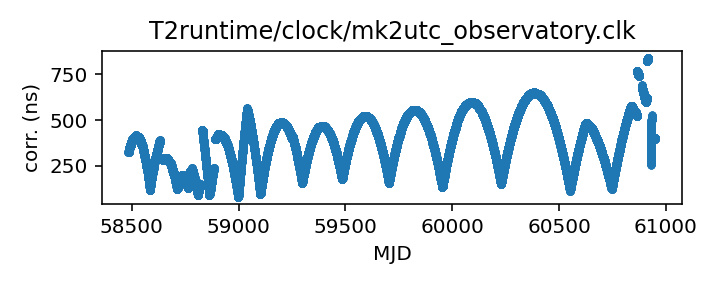
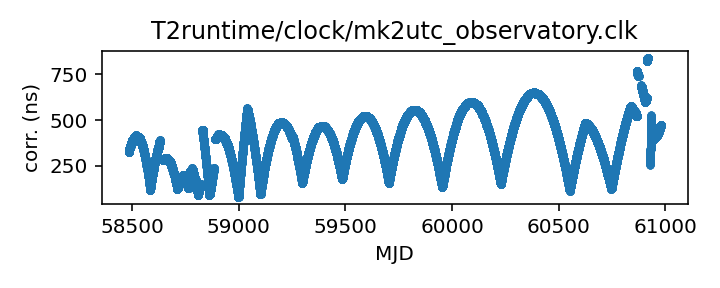
Routine gh-pages update from Github action Mon Nov 17 20:42:19 UTC 2025

diff --git a/status.md b/status.md
@@ -13,18 +13,18 @@ name of each clock file links to a page with more details.
 
 | Name | File | Corrections start | Corrections end | Last check date | Last check result 
 |:--- |:--- | --- | --- | --- |:--- 
-| [GPS to UTC](T2runtime/clock/gps2utc.clk.html) | `T2runtime/clock/gps2utc.clk` | 1993-01-01 MJD 48988.0 | 2025-10-31 MJD 60979.0 | 2025-11-16 | Unchanged 
-| [GPS to UTC (Combined Clock)](T2runtime/clock/gps2utc_cc.clk.html) | `T2runtime/clock/gps2utc_cc.clk` | 1993-01-01 MJD 48988.0 | 2025-10-31 MJD 60979.0 | 2025-11-16 | Unchanged 
-| [GPS to UTC (Corrected)](T2runtime/clock/gps2utc_c0p.clk.html) | `T2runtime/clock/gps2utc_c0p.clk` | 2010-12-29 MJD 55559.0 | 2025-10-31 MJD 60979.0 | 2025-11-16 | Unchanged 
-| [GBT](tempo/clock/time_gbt.dat.html) | `tempo/clock/time_gbt.dat` | 2000-12-31 MJD 51909.5 | 2025-11-15 MJD 60994.5 | 2025-11-16 | Updated 
-| [GBT (TEMPO2 converted from TEMPO)](T2runtime/clock/gbt2gps.clk.html) | `T2runtime/clock/gbt2gps.clk` | 2000-12-31 MJD 51909.5 | 2024-05-18 MJD 60448.5 | 2025-11-16 | **Validation failed** 
-| [Jodrell Bank](T2runtime/clock/jb2gps.clk.html) | `T2runtime/clock/jb2gps.clk` | 2006-10-13 MJD 54021.4 | 2025-10-08 MJD 60956.0 | 2025-11-10 | Unchanged 
-| [Jodrell Bank Roach](T2runtime/clock/jbroach2jb.clk.html) | `T2runtime/clock/jbroach2jb.clk` | 2006-10-13 MJD 54021.4 | 2018-03-20 MJD 58197.6 | 2025-11-10 | Unchanged 
-| [Jodrell Bank DFB](T2runtime/clock/jbdfb2jb.clk.html) | `T2runtime/clock/jbdfb2jb.clk` | 2006-10-13 MJD 54021.4 | 2021-02-22 MJD 59268.0 | 2025-11-10 | Unchanged 
-| [Meerkat (observatory)](T2runtime/clock/mk2utc_observatory.clk.html) | `T2runtime/clock/mk2utc_observatory.clk` | 2019-01-01 MJD 58484.0 | 2025-10-02 MJD 60951.0 | 2025-11-10 | **Failed to download** 
-| [Leap seconds](tempo/clock/leap.sec.html) | `tempo/clock/leap.sec` | 1972-07-01 MJD 41499.0 | 2017-01-01 MJD 57754.0 | 2025-11-16 | Unchanged 
-| [UT1 table](tempo/clock/ut1.dat.html) | `tempo/clock/ut1.dat` | 1973-01-02 MJD 41684.0 | 2026-11-21 MJD 61365.0 | 2025-11-16 | Unchanged 
-| [UT1 table](T2runtime/clock/ut1.dat.html) | `T2runtime/clock/ut1.dat` | 1973-01-02 MJD 41684.0 | 2026-11-21 MJD 61365.0 | 2025-11-16 | Unchanged 
+| [GPS to UTC](T2runtime/clock/gps2utc.clk.html) | `T2runtime/clock/gps2utc.clk` | 1993-01-01 MJD 48988.0 | 2025-10-31 MJD 60979.0 | 2025-11-17 | Unchanged 
+| [GPS to UTC (Combined Clock)](T2runtime/clock/gps2utc_cc.clk.html) | `T2runtime/clock/gps2utc_cc.clk` | 1993-01-01 MJD 48988.0 | 2025-10-31 MJD 60979.0 | 2025-11-17 | Unchanged 
+| [GPS to UTC (Corrected)](T2runtime/clock/gps2utc_c0p.clk.html) | `T2runtime/clock/gps2utc_c0p.clk` | 2010-12-29 MJD 55559.0 | 2025-10-31 MJD 60979.0 | 2025-11-17 | Unchanged 
+| [GBT](tempo/clock/time_gbt.dat.html) | `tempo/clock/time_gbt.dat` | 2000-12-31 MJD 51909.5 | 2025-11-16 MJD 60995.5 | 2025-11-17 | Updated 
+| [GBT (TEMPO2 converted from TEMPO)](T2runtime/clock/gbt2gps.clk.html) | `T2runtime/clock/gbt2gps.clk` | 2000-12-31 MJD 51909.5 | 2024-05-18 MJD 60448.5 | 2025-11-17 | **Validation failed** 
+| [Jodrell Bank](T2runtime/clock/jb2gps.clk.html) | `T2runtime/clock/jb2gps.clk` | 2006-10-13 MJD 54021.4 | 2025-10-08 MJD 60956.0 | 2025-11-17 | Unchanged 
+| [Jodrell Bank Roach](T2runtime/clock/jbroach2jb.clk.html) | `T2runtime/clock/jbroach2jb.clk` | 2006-10-13 MJD 54021.4 | 2018-03-20 MJD 58197.6 | 2025-11-17 | Unchanged 
+| [Jodrell Bank DFB](T2runtime/clock/jbdfb2jb.clk.html) | `T2runtime/clock/jbdfb2jb.clk` | 2006-10-13 MJD 54021.4 | 2021-02-22 MJD 59268.0 | 2025-11-17 | Unchanged 
+| [Meerkat (observatory)](T2runtime/clock/mk2utc_observatory.clk.html) | `T2runtime/clock/mk2utc_observatory.clk` | 2019-01-01 MJD 58484.0 | 2025-10-30 MJD 60979.0 | 2025-11-17 | Updated 
+| [Leap seconds](tempo/clock/leap.sec.html) | `tempo/clock/leap.sec` | 1972-07-01 MJD 41499.0 | 2017-01-01 MJD 57754.0 | 2025-11-17 | Unchanged 
+| [UT1 table](tempo/clock/ut1.dat.html) | `tempo/clock/ut1.dat` | 1973-01-02 MJD 41684.0 | 2026-11-21 MJD 61365.0 | 2025-11-17 | Unchanged 
+| [UT1 table](T2runtime/clock/ut1.dat.html) | `T2runtime/clock/ut1.dat` | 1973-01-02 MJD 41684.0 | 2026-11-21 MJD 61365.0 | 2025-11-17 | Unchanged 
 
 
 
@@ -68,26 +68,26 @@ name of each clock file links to a page with more details.
 
 | Name | File | Corrections start | Corrections end | Last check date | Last check result 
 |:--- |:--- | --- | --- | --- |:--- 
-| [GPS to UTC (TEMPO2)](T2runtime/clock/gpst2utc_tempo2.clk.html) | `T2runtime/clock/gpst2utc_tempo2.clk` | 1993-01-01 MJD 48988.0 | 2024-12-30 MJD 60674.0 | 2025-11-10 | Unchanged 
-| [GBT (TEMPO2)](T2runtime/clock/gbt2gps_tempo2.clk.html) | `T2runtime/clock/gbt2gps_tempo2.clk` | 2000-12-31 MJD 51909.5 | 2020-02-25 MJD 58904.5 | 2025-11-10 | Unchanged 
-| [Jodrell Bank (TEMPO)](tempo/clock/time_jb.dat.html) | `tempo/clock/time_jb.dat` | 2006-10-13 MJD 54021.4 | 2019-05-13 MJD 58616.2 | 2025-11-10 | Unchanged 
-| [VLA](tempo/clock/time_vla.dat.html) | `tempo/clock/time_vla.dat` | 1990-10-27 MJD 48191.2 | 2025-02-10 MJD 60716.2 | 2025-11-10 | Unchanged 
-| [VLA (TEMPO2)](T2runtime/clock/vla2gps.clk.html) | `T2runtime/clock/vla2gps.clk` | 2015-02-01 MJD 57054.6 | 2025-02-10 MJD 60716.2 | 2025-11-10 | Unchanged 
-| [VLA to NIST](T2runtime/clock/vla2nist.clk.html) | `T2runtime/clock/vla2nist.clk` | 1990-10-27 MJD 48191.2 | 1993-11-13 MJD 49304.0 | 2025-11-10 | Unchanged 
-| [FAST](tempo/clock/time_fast.dat.html) | `tempo/clock/time_fast.dat` | 2017-07-27 MJD 57961.0 | 2025-08-25 MJD 60913.0 | 2025-11-10 | **Failed to download** 
-| [WSRT](T2runtime/clock/wsrt2gps.clk.html) | `T2runtime/clock/wsrt2gps.clk` | 1999-01-01 MJD 51179.5 | 2015-06-29 MJD 57202.1 | 2025-11-10 | Unchanged 
-| [WSRT (TEMPO)](tempo/clock/time_wsrt.dat.html) | `tempo/clock/time_wsrt.dat` | 1987-07-24 MJD 47000.0 | 2007-12-24 MJD 54458.0 | 2025-11-10 | **Validation failed** 
-| [Parkes](T2runtime/clock/pks2gps.clk.html) | `T2runtime/clock/pks2gps.clk` | 1858-11-17 MJD 0.0 | 2025-10-31 MJD 60979.1 | 2025-11-10 | Unchanged 
-| [Parkes (TEMPO)](tempo/clock/time_pks.dat.html) | `tempo/clock/time_pks.dat` | 1979-05-07 MJD 44000.0 | 2011-07-03 MJD 55745.8 | 2025-11-10 | Unchanged 
-| [SRT](T2runtime/clock/srt2gps.clk.html) | `T2runtime/clock/srt2gps.clk` | 2013-03-20 MJD 56371.0 | 2019-12-11 MJD 58828.0 | 2025-11-10 | Unchanged 
-| [Effelsberg](T2runtime/clock/eff2gps.clk.html) | `T2runtime/clock/eff2gps.clk` | 1993-11-29 MJD 49320.0 | 2015-06-22 MJD 57195.5 | 2025-11-10 | Unchanged 
-| [Effelsberg Asterix/PSRix](T2runtime/clock/effix2gps.clk.html) | `T2runtime/clock/effix2gps.clk` | 2011-01-01 MJD 55562.5 | 2021-03-21 MJD 59294.5 | 2025-11-10 | Unchanged 
-| [LEAP](T2runtime/clock/leap2effix.clk.html) | `T2runtime/clock/leap2effix.clk` | 2012-10-29 MJD 56230.0 | 2014-03-04 MJD 56720.0 | 2025-11-10 | Unchanged 
-| [NUPPI](tempo/clock/time_nuppi.dat.html) | `tempo/clock/time_nuppi.dat` | 2005-03-07 MJD 53436.0 | 2015-11-08 MJD 57334.6 | 2025-11-10 | Unchanged 
-| [Meerkat (TEMPO2)](T2runtime/clock/mk2utc.clk.html) | `T2runtime/clock/mk2utc.clk` | 2019-01-01 MJD 58484.0 | 2024-09-23 MJD 60576.9 | 2025-11-10 | **Validation failed** 
-| [MOST](T2runtime/clock/mo2gps.clk.html) | `T2runtime/clock/mo2gps.clk` | 2003-12-27 MJD 53000.0 | 2018-09-06 MJD 58367.0 | 2025-11-10 | Unchanged 
-| [Nancay to obspm](T2runtime/clock/ncyobs2obspm.clk.html) | `T2runtime/clock/ncyobs2obspm.clk` | 1988-05-18 MJD 47299.6 | 2024-12-30 MJD 60674.0 | 2025-11-10 | Unchanged 
-| [obspm](T2runtime/clock/obspm2gps.clk.html) | `T2runtime/clock/obspm2gps.clk` | 2003-12-01 MJD 52974.0 | 2023-10-27 MJD 60244.0 | 2025-11-10 | Unchanged 
+| [GPS to UTC (TEMPO2)](T2runtime/clock/gpst2utc_tempo2.clk.html) | `T2runtime/clock/gpst2utc_tempo2.clk` | 1993-01-01 MJD 48988.0 | 2024-12-30 MJD 60674.0 | 2025-11-17 | Unchanged 
+| [GBT (TEMPO2)](T2runtime/clock/gbt2gps_tempo2.clk.html) | `T2runtime/clock/gbt2gps_tempo2.clk` | 2000-12-31 MJD 51909.5 | 2020-02-25 MJD 58904.5 | 2025-11-17 | Unchanged 
+| [Jodrell Bank (TEMPO)](tempo/clock/time_jb.dat.html) | `tempo/clock/time_jb.dat` | 2006-10-13 MJD 54021.4 | 2019-05-13 MJD 58616.2 | 2025-11-17 | Unchanged 
+| [VLA](tempo/clock/time_vla.dat.html) | `tempo/clock/time_vla.dat` | 1990-10-27 MJD 48191.2 | 2025-02-10 MJD 60716.2 | 2025-11-17 | Unchanged 
+| [VLA (TEMPO2)](T2runtime/clock/vla2gps.clk.html) | `T2runtime/clock/vla2gps.clk` | 2015-02-01 MJD 57054.6 | 2025-02-10 MJD 60716.2 | 2025-11-17 | Unchanged 
+| [VLA to NIST](T2runtime/clock/vla2nist.clk.html) | `T2runtime/clock/vla2nist.clk` | 1990-10-27 MJD 48191.2 | 1993-11-13 MJD 49304.0 | 2025-11-17 | Unchanged 
+| [FAST](tempo/clock/time_fast.dat.html) | `tempo/clock/time_fast.dat` | 2017-07-27 MJD 57961.0 | 2025-08-25 MJD 60913.0 | 2025-11-17 | **Failed to download** 
+| [WSRT](T2runtime/clock/wsrt2gps.clk.html) | `T2runtime/clock/wsrt2gps.clk` | 1999-01-01 MJD 51179.5 | 2015-06-29 MJD 57202.1 | 2025-11-17 | Unchanged 
+| [WSRT (TEMPO)](tempo/clock/time_wsrt.dat.html) | `tempo/clock/time_wsrt.dat` | 1987-07-24 MJD 47000.0 | 2007-12-24 MJD 54458.0 | 2025-11-17 | **Validation failed** 
+| [Parkes](T2runtime/clock/pks2gps.clk.html) | `T2runtime/clock/pks2gps.clk` | 1858-11-17 MJD 0.0 | 2025-10-31 MJD 60979.1 | 2025-11-17 | Unchanged 
+| [Parkes (TEMPO)](tempo/clock/time_pks.dat.html) | `tempo/clock/time_pks.dat` | 1979-05-07 MJD 44000.0 | 2011-07-03 MJD 55745.8 | 2025-11-17 | Unchanged 
+| [SRT](T2runtime/clock/srt2gps.clk.html) | `T2runtime/clock/srt2gps.clk` | 2013-03-20 MJD 56371.0 | 2019-12-11 MJD 58828.0 | 2025-11-17 | Unchanged 
+| [Effelsberg](T2runtime/clock/eff2gps.clk.html) | `T2runtime/clock/eff2gps.clk` | 1993-11-29 MJD 49320.0 | 2015-06-22 MJD 57195.5 | 2025-11-17 | Unchanged 
+| [Effelsberg Asterix/PSRix](T2runtime/clock/effix2gps.clk.html) | `T2runtime/clock/effix2gps.clk` | 2011-01-01 MJD 55562.5 | 2021-03-21 MJD 59294.5 | 2025-11-17 | Unchanged 
+| [LEAP](T2runtime/clock/leap2effix.clk.html) | `T2runtime/clock/leap2effix.clk` | 2012-10-29 MJD 56230.0 | 2014-03-04 MJD 56720.0 | 2025-11-17 | Unchanged 
+| [NUPPI](tempo/clock/time_nuppi.dat.html) | `tempo/clock/time_nuppi.dat` | 2005-03-07 MJD 53436.0 | 2015-11-08 MJD 57334.6 | 2025-11-17 | Unchanged 
+| [Meerkat (TEMPO2)](T2runtime/clock/mk2utc.clk.html) | `T2runtime/clock/mk2utc.clk` | 2019-01-01 MJD 58484.0 | 2024-09-23 MJD 60576.9 | 2025-11-17 | **Validation failed** 
+| [MOST](T2runtime/clock/mo2gps.clk.html) | `T2runtime/clock/mo2gps.clk` | 2003-12-27 MJD 53000.0 | 2018-09-06 MJD 58367.0 | 2025-11-17 | Unchanged 
+| [Nancay to obspm](T2runtime/clock/ncyobs2obspm.clk.html) | `T2runtime/clock/ncyobs2obspm.clk` | 1988-05-18 MJD 47299.6 | 2024-12-30 MJD 60674.0 | 2025-11-17 | Unchanged 
+| [obspm](T2runtime/clock/obspm2gps.clk.html) | `T2runtime/clock/obspm2gps.clk` | 2003-12-01 MJD 52974.0 | 2023-10-27 MJD 60244.0 | 2025-11-17 | Unchanged 
 
 
 ### Further information:

diff --git a/T2runtime/clock/mk2utc_observatory.clk.md b/T2runtime/clock/mk2utc_observatory.clk.md
@@ -19,14 +19,13 @@ If questions arise, contact Ryan Shannon <rshannon@swin.edu.au>
 | Format | tempo2 |
 | Bogus last correction | False |
 | Clock file start | 2019-01-01 MJD 58484.0 |
-| Clock file end | 2025-10-02 MJD 60951.0 |
+| Clock file end | 2025-10-30 MJD 60979.0 |
 | Update interval (days) | 7 |
-| Last update attempt | 2025-11-10 |
-| Last update result | Failed to download |
+| Last update attempt | 2025-11-17 |
+| Last update result | Updated |
 
 Log entries from the last few update attempts:
 ```
-2025-09-08 20:40:39.300 - Updated
 2025-09-15 20:38:23.219 - Unchanged
 2025-09-22 20:40:19.530 - Validation failed: Unable to read new version of T2runtime/clock/mk2utc_observatory.clk: Clock file /tmp/astropy-download-3290-2dyj3b3u appears to be out of order: 60933.96875 > 60929.0
 2025-09-29 20:37:22.935 - Validation failed: Unable to read new version of T2runtime/clock/mk2utc_observatory.clk: Clock file /tmp/astropy-download-3302-dwp2zb0z appears to be out of order: 60933.96875 > 60929.0
@@ -36,6 +35,7 @@ Log entries from the last few update attempts:
 2025-10-27 20:40:09.489 - Unchanged
 2025-11-03 20:42:59.579 - Unchanged
 2025-11-10 20:44:57.437 - Failed to download: <urlopen error _ssl.c:999: The handshake operation timed out>
+2025-11-17 20:41:48.816 - Updated
 ```
 [Full log](https://raw.githubusercontent.com/ipta/pulsar-clock-corrections/main/log/T2runtime/clock/mk2utc_observatory.clk.log)
 
@@ -44,7 +44,7 @@ Leading comments from clock file:
     # Tie of Karoo Telescope Time to UTC
     # This file is from the KTT-GNSS sensor, and does not include circular-T
     # MJD = (SensorTime(us)/86400e6)+40587    15-minute snapshots
-    # Created at unix time 1760038098.68837 from KTT mySQL database.
+    # Created at unix time 1762257342.154564 from KTT mySQL database.
     #
     # MJD (days)   KTT-UTC (seconds)
     #------------------------------------------------------

diff --git a/T2runtime/clock/gbt2gps.clk.md b/T2runtime/clock/gbt2gps.clk.md
@@ -25,12 +25,11 @@ If questions arise about the conversion, contact Anne Archibald
 | Clock file start | 2000-12-31 MJD 51909.5 |
 | Clock file end | 2024-05-18 MJD 60448.5 |
 | Update interval (days) | 1 |
-| Last update attempt | 2025-11-16 |
+| Last update attempt | 2025-11-17 |
 | Last update result | Validation failed |
 
 Log entries from the last few update attempts:
 ```
-2025-11-07 20:38:01.516 - Validation failed: New version of T2runtime/clock/gbt2gps.clk MJDs differ from old version where they overlap in 8407 places
 2025-11-08 20:36:40.941 - Validation failed: New version of T2runtime/clock/gbt2gps.clk MJDs differ from old version where they overlap in 8407 places
 2025-11-09 20:38:03.234 - Validation failed: New version of T2runtime/clock/gbt2gps.clk MJDs differ from old version where they overlap in 8407 places
 2025-11-10 20:44:36.517 - Validation failed: New version of T2runtime/clock/gbt2gps.clk MJDs differ from old version where they overlap in 8407 places
@@ -40,6 +39,7 @@ Log entries from the last few update attempts:
 2025-11-14 20:42:18.795 - Validation failed: New version of T2runtime/clock/gbt2gps.clk MJDs differ from old version where they overlap in 8407 places
 2025-11-15 20:37:59.275 - Validation failed: New version of T2runtime/clock/gbt2gps.clk MJDs differ from old version where they overlap in 8407 places
 2025-11-16 20:40:00.662 - Validation failed: New version of T2runtime/clock/gbt2gps.clk MJDs differ from old version where they overlap in 8407 places
+2025-11-17 20:41:23.754 - Validation failed: New version of T2runtime/clock/gbt2gps.clk MJDs differ from old version where they overlap in 8407 places
 ```
 [Full log](https://raw.githubusercontent.com/ipta/pulsar-clock-corrections/main/log/T2runtime/clock/gbt2gps.clk.log)
 

diff --git a/T2runtime/clock/mk2utc.clk.md b/T2runtime/clock/mk2utc.clk.md
@@ -17,12 +17,11 @@ up-to-date.
 | Clock file start | 2019-01-01 MJD 58484.0 |
 | Clock file end | 2024-09-23 MJD 60576.9 |
 | Update interval (days) | 7 |
-| Last update attempt | 2025-11-10 |
+| Last update attempt | 2025-11-17 |
 | Last update result | Validation failed |
 
 Log entries from the last few update attempts:
 ```
-2025-09-08 20:40:40.602 - Validation failed: New version of T2runtime/clock/mk2utc.clk MJDs differ from old version where they overlap in 8252 places
 2025-09-15 20:38:24.488 - Validation failed: New version of T2runtime/clock/mk2utc.clk MJDs differ from old version where they overlap in 8252 places
 2025-09-22 20:40:21.203 - Validation failed: New version of T2runtime/clock/mk2utc.clk MJDs differ from old version where they overlap in 8252 places
 2025-09-29 20:37:24.227 - Validation failed: New version of T2runtime/clock/mk2utc.clk MJDs differ from old version where they overlap in 8252 places
@@ -32,6 +31,7 @@ Log entries from the last few update attempts:
 2025-10-27 20:40:10.855 - Validation failed: New version of T2runtime/clock/mk2utc.clk MJDs differ from old version where they overlap in 8252 places
 2025-11-03 20:43:01.067 - Validation failed: New version of T2runtime/clock/mk2utc.clk MJDs differ from old version where they overlap in 8252 places
 2025-11-10 20:44:59.209 - Validation failed: New version of T2runtime/clock/mk2utc.clk MJDs differ from old version where they overlap in 8252 places
+2025-11-17 20:41:50.637 - Validation failed: New version of T2runtime/clock/mk2utc.clk MJDs differ from old version where they overlap in 8252 places
 ```
 [Full log](https://raw.githubusercontent.com/ipta/pulsar-clock-corrections/main/log/T2runtime/clock/mk2utc.clk.log)
 

diff --git a/tempo/clock/time_wsrt.dat.md b/tempo/clock/time_wsrt.dat.md
@@ -20,12 +20,11 @@ should be the same information.
 | Clock file start | 1987-07-24 MJD 47000.0 |
 | Clock file end | 2007-12-24 MJD 54458.0 |
 | Update interval (days) | 7 |
-| Last update attempt | 2025-11-10 |
+| Last update attempt | 2025-11-17 |
 | Last update result | Validation failed |
 
 Log entries from the last few update attempts:
 ```
-2025-09-08 20:40:29.445 - Validation failed: New version of tempo/clock/time_wsrt.dat MJDs differ from old version where they overlap in 5 places
 2025-09-15 20:38:14.339 - Validation failed: New version of tempo/clock/time_wsrt.dat MJDs differ from old version where they overlap in 5 places
 2025-09-22 20:40:04.220 - Validation failed: New version of tempo/clock/time_wsrt.dat MJDs differ from old version where they overlap in 5 places
 2025-09-29 20:37:17.520 - Validation failed: New version of tempo/clock/time_wsrt.dat MJDs differ from old version where they overlap in 5 places
@@ -35,6 +34,7 @@ Log entries from the last few update attempts:
 2025-10-27 20:39:59.582 - Validation failed: New version of tempo/clock/time_wsrt.dat MJDs differ from old version where they overlap in 5 places
 2025-11-03 20:42:27.208 - Validation failed: New version of tempo/clock/time_wsrt.dat MJDs differ from old version where they overlap in 5 places
 2025-11-10 20:44:41.093 - Validation failed: New version of tempo/clock/time_wsrt.dat MJDs differ from old version where they overlap in 5 places
+2025-11-17 20:41:29.092 - Validation failed: New version of tempo/clock/time_wsrt.dat MJDs differ from old version where they overlap in 5 places
 ```
 [Full log](https://raw.githubusercontent.com/ipta/pulsar-clock-corrections/main/log/tempo/clock/time_wsrt.dat.log)
 

diff --git a/tempo/clock/time_fast.dat.md b/tempo/clock/time_fast.dat.md
@@ -16,12 +16,11 @@ This file is pulled from the FAST_ClockFile repository.
 | Clock file start | 2017-07-27 MJD 57961.0 |
 | Clock file end | 2025-08-25 MJD 60913.0 |
 | Update interval (days) | 7 |
-| Last update attempt | 2025-11-10 |
+| Last update attempt | 2025-11-17 |
 | Last update result | Failed to download |
 
 Log entries from the last few update attempts:
 ```
-2025-09-08 20:40:28.888 - Unchanged
 2025-09-15 20:38:13.792 - Unchanged
 2025-09-22 20:40:03.597 - Unchanged
 2025-09-29 20:37:16.851 - Unchanged
@@ -31,6 +30,7 @@ Log entries from the last few update attempts:
 2025-10-27 20:39:58.812 - Failed to download: HTTP Error 404: Not Found
 2025-11-03 20:42:26.602 - Failed to download: HTTP Error 404: Not Found
 2025-11-10 20:44:40.322 - Failed to download: HTTP Error 404: Not Found
+2025-11-17 20:41:28.304 - Failed to download: HTTP Error 404: Not Found
 ```
 [Full log](https://raw.githubusercontent.com/ipta/pulsar-clock-corrections/main/log/tempo/clock/time_fast.dat.log)
 

diff --git a/tempo/clock/time_gbt.dat.md b/tempo/clock/time_gbt.dat.md
@@ -36,14 +36,13 @@ If questions arise, contact Ryan S. Lynch <rlynch@nrao.edu>.
 | Format | tempo |
 | Bogus last correction | False |
 | Clock file start | 2000-12-31 MJD 51909.5 |
-| Clock file end | 2025-11-15 MJD 60994.5 |
+| Clock file end | 2025-11-16 MJD 60995.5 |
 | Update interval (days) | 1 |
-| Last update attempt | 2025-11-16 |
+| Last update attempt | 2025-11-17 |
 | Last update result | Updated |
 
 Log entries from the last few update attempts:
 ```
-2025-11-07 20:38:01.449 - Updated
 2025-11-08 20:36:40.874 - Updated
 2025-11-09 20:38:03.165 - Updated
 2025-11-10 20:44:35.848 - Updated
@@ -53,6 +52,7 @@ Log entries from the last few update attempts:
 2025-11-14 20:42:18.731 - Updated
 2025-11-15 20:37:59.208 - Updated
 2025-11-16 20:40:00.594 - Updated
+2025-11-17 20:41:23.112 - Updated
 ```
 [Full log](https://raw.githubusercontent.com/ipta/pulsar-clock-corrections/main/log/tempo/clock/time_gbt.dat.log)
 

diff --git a/T2runtime/clock/pks2gps.clk.md b/T2runtime/clock/pks2gps.clk.md
@@ -35,12 +35,11 @@ we retain it.
 | Clock file start | 1858-11-17 MJD 0.0 |
 | Clock file end | 2025-10-31 MJD 60979.1 |
 | Update interval (days) | 7 |
-| Last update attempt | 2025-11-10 |
+| Last update attempt | 2025-11-17 |
 | Last update result | Unchanged |
 
 Log entries from the last few update attempts:
 ```
-2025-09-08 20:40:34.487 - Unchanged
 2025-09-15 20:38:19.101 - Unchanged
 2025-09-22 20:40:08.004 - Unchanged
 2025-09-29 20:37:17.888 - Validation failed: New version of T2runtime/clock/pks2gps.clk has decreased from 46535 to 46325 measurements.
@@ -50,6 +49,7 @@ Log entries from the last few update attempts:
 2025-10-27 20:40:03.699 - Unchanged
 2025-11-03 20:42:31.755 - Updated
 2025-11-10 20:44:44.539 - Unchanged
+2025-11-17 20:41:32.854 - Unchanged
 ```
 [Full log](https://raw.githubusercontent.com/ipta/pulsar-clock-corrections/main/log/T2runtime/clock/pks2gps.clk.log)
 

diff --git a/T2runtime/clock/gps2utc_c0p.clk.md b/T2runtime/clock/gps2utc_c0p.clk.md
@@ -30,12 +30,11 @@ about the BIPM's published corrections, contact <tai@bipm.org>.
 | Clock file start | 2010-12-29 MJD 55559.0 |
 | Clock file end | 2025-10-31 MJD 60979.0 |
 | Update interval (days) | 1 |
-| Last update attempt | 2025-11-16 |
+| Last update attempt | 2025-11-17 |
 | Last update result | Unchanged |
 
 Log entries from the last few update attempts:
 ```
-2025-11-07 20:38:00.583 - Updated
 2025-11-08 20:36:40.465 - Unchanged
 2025-11-09 20:38:02.414 - Unchanged
 2025-11-10 20:44:34.906 - Unchanged
@@ -45,6 +44,7 @@ Log entries from the last few update attempts:
 2025-11-14 20:42:17.896 - Unchanged
 2025-11-15 20:37:58.696 - Unchanged
 2025-11-16 20:40:00.196 - Unchanged
+2025-11-17 20:41:22.143 - Unchanged
 ```
 [Full log](https://raw.githubusercontent.com/ipta/pulsar-clock-corrections/main/log/T2runtime/clock/gps2utc_c0p.clk.log)
 

diff --git a/tempo/clock/time_pks.dat.md b/tempo/clock/time_pks.dat.md
@@ -20,12 +20,11 @@ telescopes in the same file, distinguished only by observatory code.
 | Clock file start | 1979-05-07 MJD 44000.0 |
 | Clock file end | 2011-07-03 MJD 55745.8 |
 | Update interval (days) | 7 |
-| Last update attempt | 2025-11-10 |
+| Last update attempt | 2025-11-17 |
 | Last update result | Unchanged |
 
 Log entries from the last few update attempts:
 ```
-2025-09-08 20:40:34.787 - Unchanged
 2025-09-15 20:38:19.524 - Unchanged
 2025-09-22 20:40:08.275 - Unchanged
 2025-09-29 20:37:18.213 - Unchanged
@@ -35,6 +34,7 @@ Log entries from the last few update attempts:
 2025-10-27 20:40:04.273 - Unchanged
 2025-11-03 20:42:32.121 - Unchanged
 2025-11-10 20:44:44.807 - Unchanged
+2025-11-17 20:41:33.120 - Unchanged
 ```
 [Full log](https://raw.githubusercontent.com/ipta/pulsar-clock-corrections/main/log/tempo/clock/time_pks.dat.log)
 

diff --git a/T2runtime/clock/gps2utc_cc.clk.md b/T2runtime/clock/gps2utc_cc.clk.md
@@ -29,12 +29,11 @@ about the BIPM's published corrections, contact <tai@bipm.org>.
 | Clock file start | 1993-01-01 MJD 48988.0 |
 | Clock file end | 2025-10-31 MJD 60979.0 |
 | Update interval (days) | 1 |
-| Last update attempt | 2025-11-16 |
+| Last update attempt | 2025-11-17 |
 | Last update result | Unchanged |
 
 Log entries from the last few update attempts:
 ```
-2025-11-07 20:38:00.558 - Updated
 2025-11-08 20:36:40.457 - Unchanged
 2025-11-09 20:38:02.405 - Unchanged
 2025-11-10 20:44:34.899 - Unchanged
@@ -44,6 +43,7 @@ Log entries from the last few update attempts:
 2025-11-14 20:42:17.889 - Unchanged
 2025-11-15 20:37:58.688 - Unchanged
 2025-11-16 20:40:00.188 - Unchanged
+2025-11-17 20:41:22.134 - Unchanged
 ```
 [Full log](https://raw.githubusercontent.com/ipta/pulsar-clock-corrections/main/log/T2runtime/clock/gps2utc_cc.clk.log)
 

diff --git a/T2runtime/clock/gps2utc.clk.md b/T2runtime/clock/gps2utc.clk.md
@@ -32,12 +32,11 @@ about the BIPM's published corrections, contact <tai@bipm.org>.
 | Clock file start | 1993-01-01 MJD 48988.0 |
 | Clock file end | 2025-10-31 MJD 60979.0 |
 | Update interval (days) | 1 |
-| Last update attempt | 2025-11-16 |
+| Last update attempt | 2025-11-17 |
 | Last update result | Unchanged |
 
 Log entries from the last few update attempts:
 ```
-2025-11-07 20:38:00.498 - Updated
 2025-11-08 20:36:40.435 - Unchanged
 2025-11-09 20:38:02.383 - Unchanged
 2025-11-10 20:44:34.876 - Unchanged
@@ -47,6 +46,7 @@ Log entries from the last few update attempts:
 2025-11-14 20:42:17.869 - Unchanged
 2025-11-15 20:37:58.666 - Unchanged
 2025-11-16 20:40:00.165 - Unchanged
+2025-11-17 20:41:22.112 - Unchanged
 ```
 [Full log](https://raw.githubusercontent.com/ipta/pulsar-clock-corrections/main/log/T2runtime/clock/gps2utc.clk.log)
 
